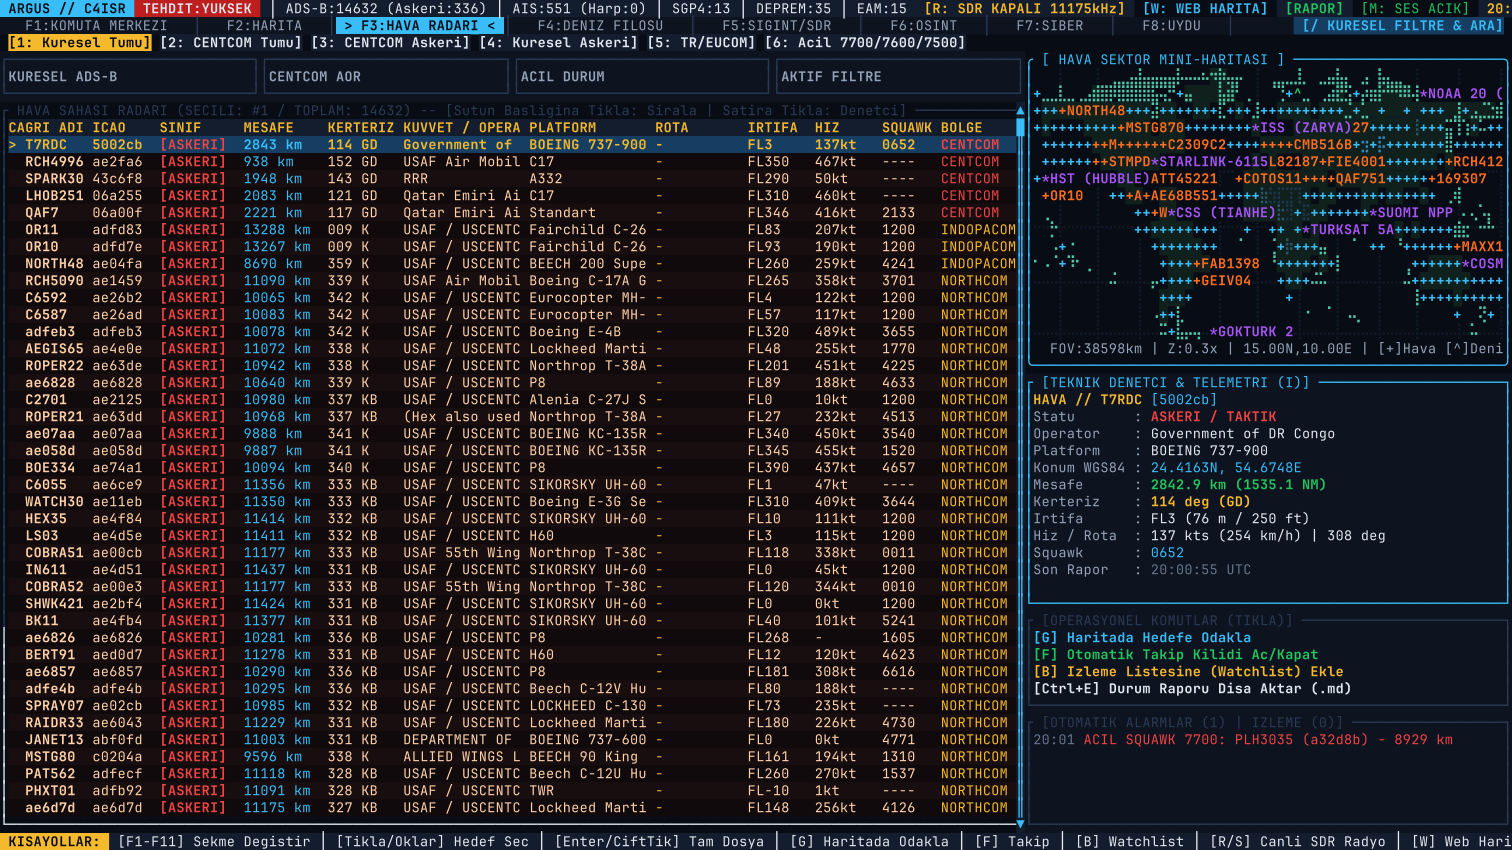
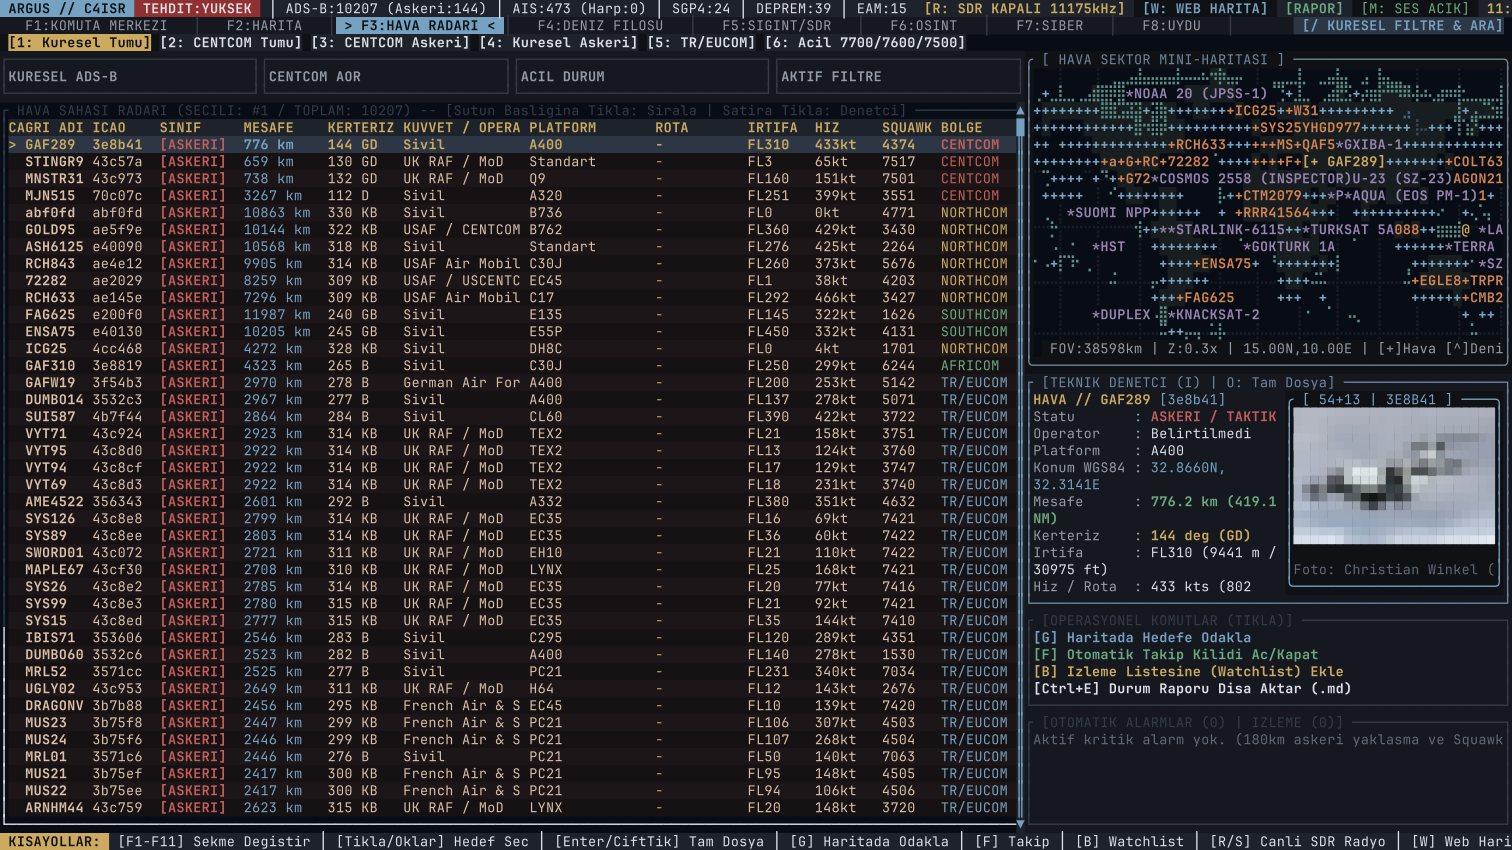
style: replace neon accents with grounded matte slate & brass C4ISR palette

diff --git a/crates/argus-core/src/theme.rs b/crates/argus-core/src/theme.rs
@@ -1,40 +1,39 @@
 use ratatui::style::Color;
 
-/// Modern Karanlık Mühendislik / C4ISR Paleti (Sıfır Göz Yorgunluğu, Yüksek Kontrast)
-pub const BG_PRIMARY: Color = Color::Rgb(8, 12, 20);        // Ana arka plan (Obsidyen)
-pub const BG_PANEL: Color = Color::Rgb(13, 19, 31);         // Panel zemini
-pub const BG_SURFACE: Color = Color::Rgb(20, 29, 46);       // Başlık / Kart yüzeyi
-pub const BG_HIGHLIGHT: Color = Color::Rgb(22, 62, 98);     // Seçili satır / aktif öğe vurgusu
-pub const BORDER_DIM: Color = Color::Rgb(42, 58, 84);       // Pasif çerçeve çizgisi
-pub const BORDER_ACTIVE: Color = Color::Rgb(56, 189, 248);  // Aktif odak çerçevesi (Cyan)
+/// Oturakli, Dusuk Pariltili C4ISR Muharebe ve Muhendislik Paleti (Mat Grafit & Celik Mavi)
+pub const BG_PRIMARY: Color = Color::Rgb(15, 17, 21);        // Ana arka plan (Mat grafit)
+pub const BG_PANEL: Color = Color::Rgb(21, 24, 30);          // Panel zemini (Koyu arduvaz)
+pub const BG_SURFACE: Color = Color::Rgb(30, 35, 43);        // Baslik / Kart yuzeyi
+pub const BG_HIGHLIGHT: Color = Color::Rgb(44, 54, 68);      // Secili satir / aktif oge vurgusu
+pub const BORDER_DIM: Color = Color::Rgb(52, 59, 70);        // Pasif cerceve cizgisi
+pub const BORDER_ACTIVE: Color = Color::Rgb(110, 134, 160);  // Aktif odak cercevesi (Fircalanmis celik)
 
-pub const FG_PRIMARY: Color = Color::Rgb(226, 232, 240);    // Birincil metin
-pub const FG_SECONDARY: Color = Color::Rgb(148, 163, 184);  // İkincil etiket
-pub const FG_MUTED: Color = Color::Rgb(100, 116, 139);      // Pasif metin
+pub const FG_PRIMARY: Color = Color::Rgb(220, 224, 230);     // Birincil metin (Yumusak kirik beyaz)
+pub const FG_SECONDARY: Color = Color::Rgb(148, 156, 168);   // Ikincil etiket (Mat gumus)
+pub const FG_MUTED: Color = Color::Rgb(96, 105, 118);        // Pasif metin
 
-/// Geriye dönük modül uyumluluğu için karanlık temaya eşlenmiş sabitler
-/// (Eski parlak gri #C0C0C0 ve camgöbeği masaüstü renkleri tamamen koyu C4ISR yüzeylerine dönüştürüldü)
-pub const WIN98_NAVY: Color = Color::Rgb(22, 62, 98);
-pub const WIN98_GRAY: Color = Color::Rgb(26, 36, 54);
-pub const WIN98_SILVER: Color = Color::Rgb(13, 19, 31);
-pub const WIN98_DARK_GRAY: Color = Color::Rgb(52, 70, 98);
-pub const WIN98_WHITE: Color = Color::Rgb(226, 232, 240);
-pub const WIN98_TEAL: Color = Color::Rgb(8, 12, 20);
-pub const WIN98_BLACK: Color = Color::Rgb(210, 220, 235);
+/// Geriye donuk modul uyumlulugu icin mat palete eslenmis sabitler
+pub const WIN98_NAVY: Color = Color::Rgb(44, 54, 68);
+pub const WIN98_GRAY: Color = Color::Rgb(30, 35, 43);
+pub const WIN98_SILVER: Color = Color::Rgb(21, 24, 30);
+pub const WIN98_DARK_GRAY: Color = Color::Rgb(58, 67, 80);
+pub const WIN98_WHITE: Color = Color::Rgb(220, 224, 230);
+pub const WIN98_TEAL: Color = Color::Rgb(15, 17, 21);
+pub const WIN98_BLACK: Color = Color::Rgb(212, 218, 226);
 
-/// Taktik Semantik Vurgu Renkleri
-pub const TELETEXT_YELLOW: Color = Color::Rgb(245, 185, 45);   // Başlıklar, uyarılar, seçili vurgu
-pub const TELETEXT_CYAN: Color = Color::Rgb(56, 189, 248);     // Hava hedefleri, koordinatlar, telemetri
-pub const TELETEXT_GREEN: Color = Color::Rgb(34, 197, 94);     // Deniz hedefleri, aktif bağlantı, güvenli durum
-pub const TELETEXT_RED: Color = Color::Rgb(239, 68, 68);       // Askeri/Acil hedefler, Squawk 7700, M5.5+ deprem
-pub const TELETEXT_MAGENTA: Color = Color::Rgb(168, 85, 247);  // Uydu yörüngeleri (SGP4)
-pub const TELETEXT_BLUE: Color = Color::Rgb(37, 99, 235);      // İkincil aksan
-pub const TELETEXT_WHITE: Color = Color::Rgb(226, 232, 240);   // Gövde metni
-pub const TELETEXT_BLACK: Color = Color::Rgb(8, 12, 20);       // Tablo koyu zemini
+/// Desature Edilmis, Goz Yormayan Taktik Semantik Vurgu Renkleri
+pub const TELETEXT_YELLOW: Color = Color::Rgb(204, 170, 96);   // Basliklar, secili vurgu (Mat pirinc)
+pub const TELETEXT_CYAN: Color = Color::Rgb(118, 162, 194);    // Sivil hava hedefleri, koordinat, telemetri (Celik mavi)
+pub const TELETEXT_GREEN: Color = Color::Rgb(106, 170, 128);   // Deniz hedefleri, aktif baglanti (Ada cayi yesili)
+pub const TELETEXT_RED: Color = Color::Rgb(196, 94, 90);       // Askeri / Acil hedefler (Mat kiremit kirmizisi)
+pub const TELETEXT_MAGENTA: Color = Color::Rgb(152, 132, 178); // Uydu yorungeleri (Mat lavanta-arduvaz)
+pub const TELETEXT_BLUE: Color = Color::Rgb(82, 118, 164);     // Ikincil celik aksan
+pub const TELETEXT_WHITE: Color = Color::Rgb(220, 224, 230);   // Govde metni
+pub const TELETEXT_BLACK: Color = Color::Rgb(15, 17, 21);      // Koyu kontrast zemin
 
 /// Saf ASCII Pencere Kontrol Sembolleri
 pub const WIN98_BTN_MIN: &str = "[_]";
 pub const WIN98_BTN_MAX: &str = "[+]";
 pub const WIN98_BTN_RESTORE: &str = "[-]";
 pub const WIN98_BTN_CLOSE: &str = "[X]";
-pub const WIN98_START_LABEL: &str = " [MENÜ] ";
+pub const WIN98_START_LABEL: &str = " [MENU] ";

diff --git a/crates/argus-tui/src/widgets/p100_map.rs b/crates/argus-tui/src/widgets/p100_map.rs
@@ -238,36 +238,36 @@ pub fn render_p100_map(frame: &mut Frame, area: Rect, state: &mut AppState) {
 
     let (ocean_bg, land_bg, coast_col, border_col, lake_col, grid_col) = match state.map_style {
         MapRenderStyle::HalfBlockTerrain => (
-            Color::Rgb(6, 13, 24),
-            Color::Rgb(16, 32, 28),
-            Color::Rgb(78, 200, 170),
-            Color::Rgb(42, 85, 105),
-            Color::Rgb(48, 135, 185),
-            Color::Rgb(14, 24, 38),
+            Color::Rgb(13, 17, 23),
+            Color::Rgb(24, 30, 32),
+            Color::Rgb(92, 146, 140),
+            Color::Rgb(54, 72, 84),
+            Color::Rgb(58, 108, 142),
+            Color::Rgb(22, 28, 36),
         ),
         MapRenderStyle::HalfBlockDarkTile => (
-            Color::Rgb(7, 10, 16),
-            Color::Rgb(18, 24, 34),
-            Color::Rgb(110, 160, 215),
-            Color::Rgb(50, 70, 95),
-            Color::Rgb(65, 115, 165),
-            Color::Rgb(16, 20, 30),
+            Color::Rgb(12, 15, 20),
+            Color::Rgb(22, 26, 33),
+            Color::Rgb(116, 148, 180),
+            Color::Rgb(56, 68, 84),
+            Color::Rgb(68, 104, 140),
+            Color::Rgb(22, 26, 34),
         ),
         MapRenderStyle::HalfBlockSatellite => (
-            Color::Rgb(6, 18, 34),
-            Color::Rgb(26, 42, 26),
-            Color::Rgb(140, 195, 120),
-            Color::Rgb(75, 105, 70),
-            Color::Rgb(55, 135, 195),
-            Color::Rgb(14, 28, 46),
+            Color::Rgb(12, 19, 28),
+            Color::Rgb(28, 36, 30),
+            Color::Rgb(126, 156, 118),
+            Color::Rgb(72, 88, 68),
+            Color::Rgb(60, 108, 148),
+            Color::Rgb(20, 28, 38),
         ),
         MapRenderStyle::BrailleVector => (
-            Color::Rgb(6, 11, 20),
-            Color::Rgb(12, 22, 36),
-            Color::Rgb(105, 205, 255),
-            Color::Rgb(45, 90, 135),
-            Color::Rgb(65, 150, 220),
-            Color::Rgb(16, 28, 44),
+            Color::Rgb(13, 16, 22),
+            Color::Rgb(19, 24, 32),
+            Color::Rgb(110, 158, 190),
+            Color::Rgb(54, 74, 96),
+            Color::Rgb(66, 116, 158),
+            Color::Rgb(22, 28, 38),
         ),
     };
 
@@ -376,7 +376,7 @@ pub fn render_p100_map(frame: &mut Frame, area: Rect, state: &mut AppState) {
                 }
                 // F. İstanbul & Çanakkale Boğazları Mikro-Vektörleri
                 if zoom >= 1.8 {
-                    let fine_col = Color::Rgb(115, 235, 205);
+                    let fine_col = Color::Rgb(116, 174, 166);
                     draw_polyline_f64(ctx, BOGAZ_AVRUPA_VE_HALIC, fine_col);
                     draw_polyline_f64(ctx, BOGAZ_ANADOLU_VE_IZMIT, fine_col);
                     draw_polyline_f64(ctx, CANAKKALE_AVRUPA, fine_col);
@@ -403,7 +403,7 @@ pub fn render_p100_map(frame: &mut Frame, area: Rect, state: &mut AppState) {
                             x: st_lon,
                             y: st_lat,
                             radius: deg_radius,
-                            color: Color::Rgb(28, 52, 76),
+                            color: Color::Rgb(38, 52, 68),
                         });
                     }
                 }
@@ -490,7 +490,7 @@ pub fn render_p100_map(frame: &mut Frame, area: Rect, state: &mut AppState) {
             sx,
             sy,
             "X",
-            Color::Rgb(0, 235, 255),
+            TELETEXT_YELLOW,
             None,
             true,
         );
@@ -536,7 +536,7 @@ pub fn render_p100_map(frame: &mut Frame, area: Rect, state: &mut AppState) {
                     sx,
                     sy,
                     "#",
-                    Color::Rgb(255, 90, 20),
+                    Color::Rgb(206, 122, 74),
                     None,
                     true,
                 );
@@ -605,7 +605,7 @@ pub fn render_p100_map(frame: &mut Frame, area: Rect, state: &mut AppState) {
                 sx,
                 sy,
                 "[JAM]",
-                Color::Rgb(220, 50, 160),
+                Color::Rgb(184, 96, 136),
                 None,
                 true,
             );
@@ -709,7 +709,7 @@ pub fn render_p100_map(frame: &mut Frame, area: Rect, state: &mut AppState) {
             mark_cell(sx, sy, w, sorted_pos);
         }
 
-        let mil_col = Color::Rgb(255, 110, 30);
+        let mil_col = Color::Rgb(210, 132, 82);
         for (sorted_pos, buf_idx, sx, sy) in vis_mil {
             let Some(track) = state.air_targets.get(buf_idx) else {
                 continue;

diff --git a/crates/argus-tui/src/views/satint.rs b/crates/argus-tui/src/views/satint.rs
@@ -45,11 +45,11 @@ pub fn render_satint_view(frame: &mut Frame, area: Rect, state: &mut AppState) {
         .y_bounds([-100.0, 100.0])
         .block(radar_block)
         .paint(|ctx| {
-            ctx.draw(&Circle { x: 0.0, y: 0.0, radius: 90.0, color: Color::Rgb(30, 62, 94) });
-            ctx.draw(&Circle { x: 0.0, y: 0.0, radius: 60.0, color: Color::Rgb(24, 50, 76) });
-            ctx.draw(&Circle { x: 0.0, y: 0.0, radius: 30.0, color: Color::Rgb(18, 38, 58) });
-            ctx.draw(&CanvasLine { x1: 0.0, y1: -95.0, x2: 0.0, y2: 95.0, color: Color::Rgb(30, 62, 94) });
-            ctx.draw(&CanvasLine { x1: -95.0, y1: 0.0, x2: 95.0, y2: 0.0, color: Color::Rgb(30, 62, 94) });
+            ctx.draw(&Circle { x: 0.0, y: 0.0, radius: 90.0, color: Color::Rgb(44, 56, 72) });
+            ctx.draw(&Circle { x: 0.0, y: 0.0, radius: 60.0, color: Color::Rgb(36, 46, 60) });
+            ctx.draw(&Circle { x: 0.0, y: 0.0, radius: 30.0, color: Color::Rgb(28, 36, 48) });
+            ctx.draw(&CanvasLine { x1: 0.0, y1: -95.0, x2: 0.0, y2: 95.0, color: Color::Rgb(44, 56, 72) });
+            ctx.draw(&CanvasLine { x1: -95.0, y1: 0.0, x2: 95.0, y2: 0.0, color: Color::Rgb(44, 56, 72) });
 
             for (idx, sat) in state.satellites.iter().enumerate() {
                 let az_rad = (sat.az_deg - 90.0).to_radians();

diff --git a/crates/argus-tui/src/views/masint.rs b/crates/argus-tui/src/views/masint.rs
@@ -4,7 +4,7 @@ use argus_core::state::AppState;
 use argus_core::theme::*;
 use ratatui::{
     layout::{Constraint, Direction, Layout, Rect},
-    style::{Color, Modifier, Style},
+    style::{Modifier, Style},
     text::{Line, Span},
     widgets::{Block, BorderType, Borders, Cell, Clear, Paragraph, Row, Scrollbar, ScrollbarOrientation, ScrollbarState, Table},
     Frame,
@@ -200,7 +200,7 @@ pub fn render_masint_view(frame: &mut Frame, area: Rect, state: &mut AppState) {
                 } else if usvh >= 0.3 {
                     ("[!] YUKSEK FON", TELETEXT_YELLOW)
                 } else {
-                    ("NORMAL FON", Color::Rgb(50, 255, 120))
+                    ("NORMAL FON", TELETEXT_GREEN)
                 };
                 let loc = rad.location_name.as_deref().unwrap_or("Geiger Istasyonu");
                 rows.push(

diff --git a/crates/argus-tui/src/views/air_tracks.rs b/crates/argus-tui/src/views/air_tracks.rs
@@ -324,11 +324,11 @@ pub fn render_air_tracks_view(frame: &mut Frame, area: Rect, state: &mut AppStat
                 .add_modifier(Modifier::BOLD)
         } else if track.is_military {
             Style::default()
-                .fg(Color::Rgb(255, 210, 170))
+                .fg(Color::Rgb(218, 192, 168))
                 .bg(if offset % 2 == 0 {
-                    Color::Rgb(24, 14, 16)
+                    Color::Rgb(28, 22, 24)
                 } else {
-                    Color::Rgb(16, 10, 12)
+                    Color::Rgb(22, 18, 20)
                 })
         } else {
             Style::default()

diff --git a/crates/argus-tui/src/ui.rs b/crates/argus-tui/src/ui.rs
@@ -90,9 +90,9 @@ fn render_header_deck(frame: &mut Frame, area: Rect, state: &mut AppState) {
     let mil_air = state.air_targets.iter().filter(|t| t.is_military).count();
     let mil_sea = state.sea_targets.iter().filter(|t| t.is_military).count();
     let threat_badge = if !state.alerts.is_empty() || mil_air > 5 {
-        ("TEHDIT:YUKSEK", Color::Rgb(190, 30, 30))
+        ("TEHDIT:YUKSEK", Color::Rgb(145, 48, 48))
     } else {
-        ("TEHDIT:NORMAL", Color::Rgb(20, 110, 60))
+        ("TEHDIT:NORMAL", Color::Rgb(36, 92, 62))
     };
 
     let mut r0 = vec![
